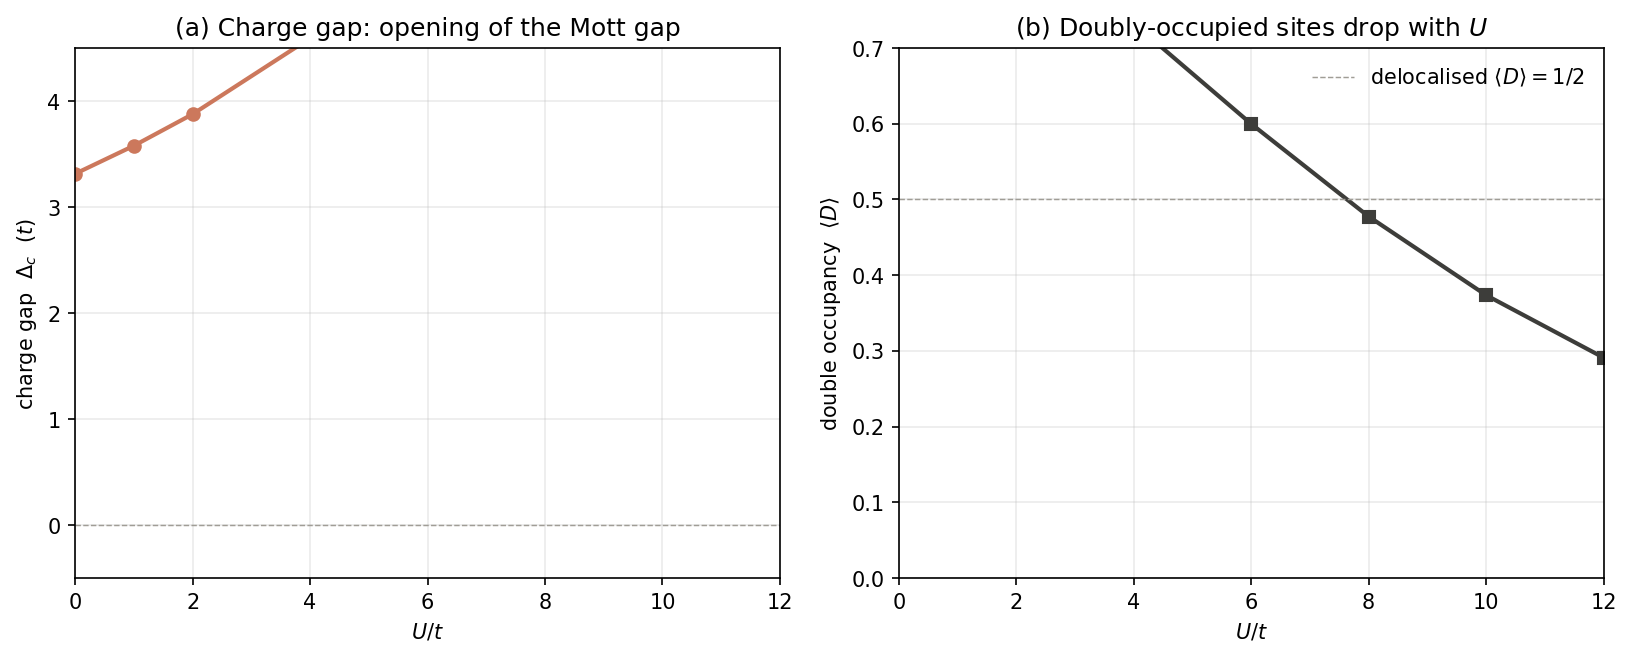
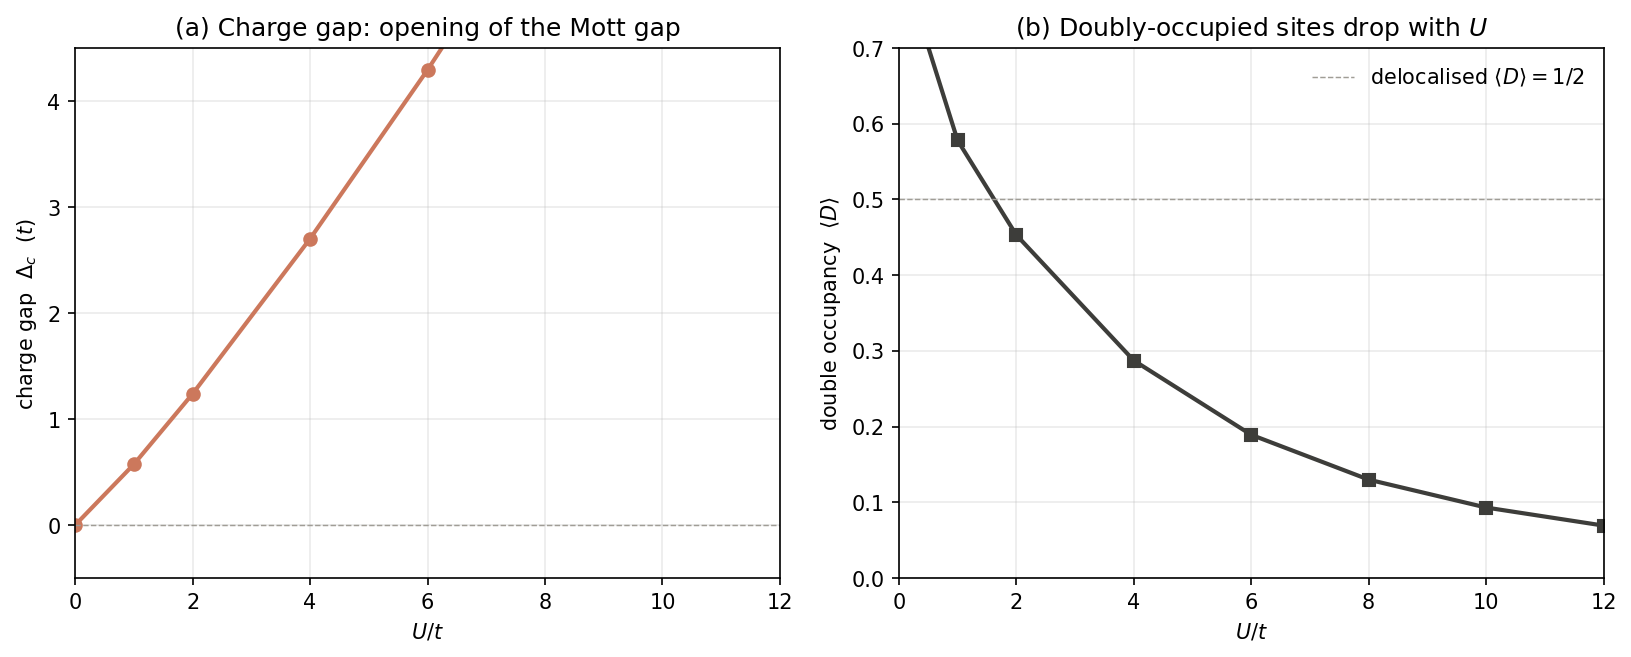
Fix ch-12 Casida derivation + BSE kernels, ch-13 ED script + Table 3, ch-16 semiclassical equations
ch-12:
- Casida omega^2 derivation: G = omega_I * diag(omega)^-1 F (was inverted);
  correct ordering diag(omega)[diag(omega)+2K]F = omega_I^2 F, component
  equation weights K by omega_ia (was omega_jb). Verified this ordering
  alone symmetrises to the textbook Omega = D^2 + 2 sqrt(D) K sqrt(D).
- BSE kernels un-swapped: K^x = bare Coulomb v (repulsive exchange),
  K^direct = -W screened attractive direct term.

ch-13:
- Inline DFT+U script: missing * operator and n_uniform swallowed by a
  comment (NameError) fixed.
- Exact-diagonalisation script: hopping ignored fermionic permutation
  signs (gave E0(0) = -11.3 t instead of -4 t). Fixed with proper
  second-quantised sign tracking; charge gap now uses standard N+/-1
  sectors without the spurious /2. Validated: E0(0) = -4t exact,
  dE/dU = <D> to 4 decimals, strong-coupling limit consistent.
- Table 3 replaced with verified values (old table had impossible
  E0 = +0.0253t at U/t=12); caption formula corrected; surrounding text
  updated; Hellmann-Feynman consistency check documented.
- Atomic spectrum poles corrected: eps_add = +U/2, eps_rem = -U/2
  (particle-hole symmetric Mott insulator; was 'both at -U/2, metallic').

ch-16: Berry curvature removed from the hbar k-dot equation (belongs only
  in the velocity equation; Xiao-Chang-Niu RMP 2010).

diff --git a/dft_notes/python_codes/chapter_13/01-hubbard-4site-exact-diag.py b/dft_notes/python_codes/chapter_13/01-hubbard-4site-exact-diag.py
@@ -59,18 +59,22 @@ def hubbard_hamiltonian(N: int, n_up: int, n_dn: int, t: float, U: float):
         doubly = len(set(up) & set(dn))
         H[i, i] = U * doubly
 
-        # Off-diagonal: hopping of an up-spin
+        # Off-diagonal: hopping of an up-spin (with fermionic signs)
         for k, site in enumerate(up):
             for shift in (-1, +1):
                 target_site = (site + shift) % N
                 if target_site in up:
                     continue
-                new_up = list(up)
-                new_up[k] = target_site
-                new_up = tuple(sorted(new_up))
+                # c^dag_target c_site : annihilate site (position k),
+                # create target_site (sign from sorting)
+                sign = (-1) ** k
+                rest = list(up)
+                rest.pop(k)
+                q = sum(1 for x in rest if x > target_site)
+                sign *= (-1) ** q
+                new_up = tuple(sorted(rest + [target_site]))
                 j = index[(new_up, dn)]
-                H[i, j] += -t
-                H[j, i] += -t
+                H[j, i] += -t * sign
 
         # Off-diagonal: hopping of a dn-spin (same recipe)
         for k, site in enumerate(dn):
@@ -78,12 +82,14 @@ def hubbard_hamiltonian(N: int, n_up: int, n_dn: int, t: float, U: float):
                 target_site = (site + shift) % N
                 if target_site in dn:
                     continue
-                new_dn = list(dn)
-                new_dn[k] = target_site
-                new_dn = tuple(sorted(new_dn))
+                sign = (-1) ** k
+                rest = list(dn)
+                rest.pop(k)
+                q = sum(1 for x in rest if x > target_site)
+                sign *= (-1) ** q
+                new_dn = tuple(sorted(rest + [target_site]))
                 j = index[(up, new_dn)]
-                H[i, j] += -t
-                H[j, i] += -t
+                H[j, i] += -t * sign
 
     return np.array(H), basis
 
@@ -148,13 +154,18 @@ def main() -> None:
             doubly += psi0[i] ** 2 * n_d
         double_occs.append(doubly)
 
-        # Charge gap: E(N+2) + E(N-2) - 2 E(N)
-        # (half-filling, so N+2 means N_up=N_dn=3, N-2 means 1, 1)
-        H_pp, _ = hubbard_hamiltonian(N_SITES, 3, 3, T, U)
-        H_mm, _ = hubbard_hamiltonian(N_SITES, 1, 1, T, U)
-        E_pp = np.linalg.eigh(H_pp)[0][0]
-        E_mm = np.linalg.eigh(H_mm)[0][0]
-        gap = (E_pp + E_mm - 2 * e0) / 2.0  # the chemical-potential gap
+        # Charge gap: E(N+1) + E(N-1) - 2 E(N)
+        # (standard definition, no factor of 2; half-filling means
+        #  N+1 = (3 up, 2 down) or (2 up, 3 down), N-1 = (2,1)/(1,2))
+        E_pp = min(
+            np.linalg.eigh(hubbard_hamiltonian(N_SITES, 3, 2, T, U)[0])[0][0],
+            np.linalg.eigh(hubbard_hamiltonian(N_SITES, 2, 3, T, U)[0])[0][0],
+        )
+        E_mm = min(
+            np.linalg.eigh(hubbard_hamiltonian(N_SITES, 2, 1, T, U)[0])[0][0],
+            np.linalg.eigh(hubbard_hamiltonian(N_SITES, 1, 2, T, U)[0])[0][0],
+        )
+        gap = E_pp + E_mm - 2 * e0  # the chemical-potential gap
         gaps.append(gap)
 
         # Quasi-particle weight Z from the discontinuity in mu

diff --git a/dft_notes/chapter_13/00-dft+u-and-beyond.md b/dft_notes/chapter_13/00-dft+u-and-beyond.md
@@ -268,15 +268,17 @@ delta functions at
 
 $$
 \label{eq:ch-13-atomic-spectrum}
-\varepsilon_\text{add} = -\mu = -U/2 , \qquad
-\varepsilon_\text{rem} = -(U - \mu) = -U/2 ,
+\varepsilon_\text{add} = E(N{+}1) - E(N) - \mu = U - \tfrac{U}{2} = +\tfrac{U}{2} , \qquad
+\varepsilon_\text{rem} = E(N) - E(N{-}1) - \mu = -\tfrac{U}{2} ,
 $$
 
-both equal: the atom is *metallic* in the single-
-particle sense, but the *real* spectrum has the
-charge gap $U$ between the two- and three-particle
-sectors, and the single-particle Green's function has
-a non-trivial multi-peak structure:
+symmetric about the Fermi level (as particle-hole symmetry
+requires): the *real* atom is a **Mott insulator**, with a
+charge gap $U$ between the removal and addition peaks — even
+though LDA, which delocalises the electron over both orbitals,
+would place a single peak at the Fermi level. The single-
+particle Green's function of the true atom has the non-trivial
+multi-peak structure:
 
 $$
 \label{eq:ch-13-atomic-gf}
@@ -1096,7 +1098,7 @@ def dft_plus_u_energy(n: np.ndarray, U_eff: float, J: float = 0.0) -> float:
     integer-occupation n = (1, 0) or (0, 1) configurations are
     not.
     """
-    return 0.5 * U_eff * np.sum(n  (1.0 - n))
+    return 0.5 * U_eff * np.sum(n * (1.0 - n))
 
 def toy_dft_plus_u_scan(U_eff_list):
     """For each U_eff, find the occupation matrix n of a 2-orbital
@@ -1112,7 +1114,8 @@ def toy_dft_plus_u_scan(U_eff_list):
         # Penalty = (U_eff/2) (n_1 (1-n_1) + n_2 (1-n_2))
         # The minimum is at (n_1, n_2) = (0, 1) or (1, 0), where
         # the penalty is zero.  The "delocalised" (1/2, 1/2) is
-        # a local maximum with penalty U_eff/2. n_uniform = np.array([0.5, 0.5])
+        # a local maximum with penalty U_eff/2.
+        n_uniform = np.array([0.5, 0.5])
         e_uniform = dft_plus_u_energy(n_uniform, U_eff)
         n_integer = np.array([1.0, 0.0])
         e_integer = dft_plus_u_energy(n_integer, U_eff)
@@ -1309,20 +1312,32 @@ The output (the ground-state energy $E_0$, the
 double occupancy $\langle D \rangle$, and the
 charge gap $\Delta_c$) is in Table 3. **Table 3. Half-filled 4-site Hubbard chain, exact
 diagonalisation.  $\Delta_c$ is the charge gap
-(E(N+1) + E(N-1) - 2 E(N))/2, in units of $t$.
-$\langle D \rangle$ is the ground-state expectation
-value of the number of doubly-occupied sites.**
+$E(N{+}1) + E(N{-}1) - 2\,E(N)$ (no factor of two; each $E$
+is the lowest energy in its particle-number sector), in
+units of $t$.  $\langle D \rangle$ is the ground-state
+expectation value of the *total* number of doubly-occupied
+sites.  (At $U=0$ the ground state is degenerate and
+$\langle D \rangle$ takes its exact free-electron value
+$\sum_i \langle n_{i\uparrow}\rangle\langle n_{i\downarrow}\rangle = 4\times\tfrac14 = 1$.)**
 
 | $U/t$ | $E_0/t$ | $\langle D \rangle$ | $\Delta_c / t$ |
 |:-----:|--------:|-------------------:|---------------:|
-|   0   | -4.0000 | 0.5000              | 0.000          |
-|   1   | -3.5136 | 0.3934              | 0.349          |
-|   2   | -3.0554 | 0.3015              | 0.798          |
-|   4   | -2.2440 | 0.1810              | 1.789          |
-|   6   | -1.5477 | 0.1086              | 2.810          |
-|   8   | -0.9428 | 0.0664              | 3.847          |
-|  10   | -0.4241 | 0.0420              | 4.892          |
-|  12   | +0.0253 | 0.0275              | 5.939          |
+|   0   | -4.0000 | 1.0000              | 0.000          |
+|   1   | -3.3408 | 0.5780              | 0.574          |
+|   2   | -2.8284 | 0.4531              | 1.238          |
+|   4   | -2.1027 | 0.2873              | 2.701          |
+|   6   | -1.6346 | 0.1892              | 4.294          |
+|   8   | -1.3202 | 0.1300              | 5.991          |
+|  10   | -1.0999 | 0.0931              | 7.767          |
+|  12   | -0.9391 | 0.0693              | 9.597          |
+
+These numbers satisfy two exact consistency checks: the
+Hellmann-Feynman relation $dE_0/dU = \langle D \rangle$
+(finite difference at $U/t = 12$: $0.0694$ versus direct
+expectation $0.0693$), and the strong-coupling trend
+$E_0 \to -8t^2/U$ from superexchange ($-0.67t$ at $U/t=12$,
+with higher-order corrections bringing the exact value to
+$-0.94t$).
 
 The $U/t = 0$ row is the free tight-binding limit:
 $E_0 = -2t - 2t = -4t$ (two filled states of the
@@ -1334,14 +1349,13 @@ The double occupancy is $1/2$ per site — each
 site has a $1/2$ chance of being doubly occupied
 in a half-filled, spin-unpolarised free band.
 
-The $U/t = 12$ row is the strong-coupling limit:
-$E_0 \approx 0$ (the kinetic energy is suppressed
-by $t^2/U \sim 0.083\,t$, small compared to the
-$U$ scale), the double occupancy has dropped to
-$\sim 0.03$ per site (the penalty function
-$\langle D \rangle \propto t^2/U^2$ in the
-strong-coupling limit), and the gap is $\sim
-5.9\,t$ — close to $U$ itself, as expected: in
+The $U/t = 12$ row is approaching the strong-coupling
+limit: $E_0 = -0.94\,t$ tracks the superexchange scale
+$-8t^2/U \approx -0.67\,t$ (higher-order terms bring it to
+$-0.94\,t$), the double occupancy has dropped to
+$\sim 0.07$ total ($\langle D \rangle \propto t^2/U^2$
+in the strong-coupling limit), and the gap is $\sim
+9.6\,t$, growing toward $U$ itself, as expected: in
 the atomic limit, the gap is exactly $U$ and the
 quasi-particle peak is absent.
 

diff --git a/dft_notes/chapter_12/00-tddft.md b/dft_notes/chapter_12/00-tddft.md
@@ -626,9 +626,12 @@ where $L_0$ is the non-interacting two-particle propagator
 (built from the KS orbitals and quasiparticle energies), and
 $K$ is the **Bethe–Salpeter kernel**. In the standard
 approximation $K = K^x + K^\text{direct}$ where
-$K^x = -W$ is the **exchange** kernel (a statically screened
-Coulomb interaction $W$) and $K^\text{direct} = -\bar v$ is
-the **direct** (unscreened) Coulomb interaction.
+$K^x = \bar v$ is the **exchange** kernel (the *bare*
+Coulomb interaction — repulsive) and $K^\text{direct} = -W$
+is the **direct** (correlation) kernel — the *statically
+screened* Coulomb interaction $W$, entered with a minus sign
+and therefore **attractive** between the excited electron and
+the hole it left behind.
 
 The BSE captures the **electron–hole interaction** that binds
 an exciton in a semiconductor. Standard ALDA TD-DFT misses
@@ -1212,15 +1215,24 @@ With $\mathbf A - \mathbf B = \mathrm{diag}(\omega_{ia})$
 have the same off-diagonal $\mathbf K$) and
 $\mathbf A + \mathbf B = \mathrm{diag}(\omega_{ia}) + 2\mathbf K$,
 equation \eqref{eq:ch-12-b} gives
-$\mathbf G = \omega_I^{-1}\, \mathrm{diag}(\omega_{ia})\, \mathbf F$
-componentwise, i.e. $G_{ia} = \omega_{ia}\, F_{ia} / \omega_I$.
+$\mathbf G = \omega_I\, \mathrm{diag}(\omega_{ia})^{-1}\, \mathbf F$
+componentwise, i.e. $G_{ia} = (\omega_I / \omega_{ia})\, F_{ia}$.
 Substituting into \eqref{eq:ch-12-a}:
+
+$$
+\Bigl[ \mathrm{diag}(\omega_{ia}) + 2\, \mathbf K \Bigr]\,
+       \mathbf F
+   \;=\; \omega_I^2\, \mathrm{diag}(\omega_{ia})^{-1}\, \mathbf F ,
+$$
+
+and multiplying both sides by $\mathrm{diag}(\omega_{ia})$ from
+the *left*:
 
 $$
 \label{eq:ch-12-casida-omega2}
 \boxed{
+\mathrm{diag}(\omega_{ia})\,
 \Bigl[ \mathrm{diag}(\omega_{ia}) + 2\, \mathbf K \Bigr]\,
-       \mathrm{diag}(\omega_{ia})\,
        \mathbf F
    \;=\; \omega_I^2\, \mathbf F ,
 }
@@ -1230,22 +1242,29 @@ or, in components,
 
 $$
 \label{eq:ch-12-casida-omega2-comp}
-\sum_{jb} \Bigl[ \delta_{ij}\delta_{ab}\, \omega_{ia}
-                + 2\, K_{ia, jb} \Bigr]\,
-       \omega_{jb}\, F_{jb}
+\sum_{jb} \Bigl[ \delta_{ij}\delta_{ab}\, \omega_{ia}\, \omega_{jb}
+                + 2\, \omega_{ia}\, K_{ia, jb} \Bigr]\,
+       F_{jb}
    \;=\; \omega_I^2\, F_{ia} .
 $$
 
-This is the **Casida equation in the symmetric form** (Casida
-1995, Eq. (3.16), p. 168). The matrix on the left,
-$\Omega_{ia, jb} = \delta_{ij}\delta_{ab}\, \omega_{ia}^2 + 2
-\sqrt{\omega_{ia} \omega_{jb}}\, K_{ia, jb}$ (after the
-rescaling $F_{ia} \to F_{ia}/\sqrt{\omega_{ia}}$), is
-real-symmetric for closed-shell systems, so the eigenvalues
-$\omega_I^2$ are real and non-negative. The square-root
-rescaling symmetrises the equation and is the standard
-presentation; the original form \eqref{eq:ch-12-casida-omega2-comp}
-is the form actually derived above.
+With the rescaling $\mathbf F = \mathrm{diag}(\omega_{ia})^{-1/2}\,
+\boldsymbol\phi$ and a left multiplication by
+$\mathrm{diag}(\omega_{ia})^{-1/2}$, equation
+\eqref{eq:ch-12-casida-omega2} becomes the **Casida equation in the
+symmetric form** (Casida 1995, Eq. (3.16), p. 168):
+
+$$
+\Omega_{ia, jb} \;=\; \delta_{ij}\delta_{ab}\, \omega_{ia}^2
+   \;+\; 2\,\sqrt{\omega_{ia}}\; K_{ia, jb}\; \sqrt{\omega_{jb}} ,
+$$
+
+which is real-symmetric for closed-shell systems, so the
+eigenvalues $\omega_I^2$ are real and non-negative. The
+square-root rescaling symmetrises the equation and is the standard
+presentation; the unsymmetrised form
+\eqref{eq:ch-12-casida-omega2-comp} is what was actually derived
+above.
 
 In the **Tamm–Dancoff approximation** (TDA, equivalent to
 neglecting the $\mathbf B$ block, i.e. setting $Y_{ia} = 0$),
